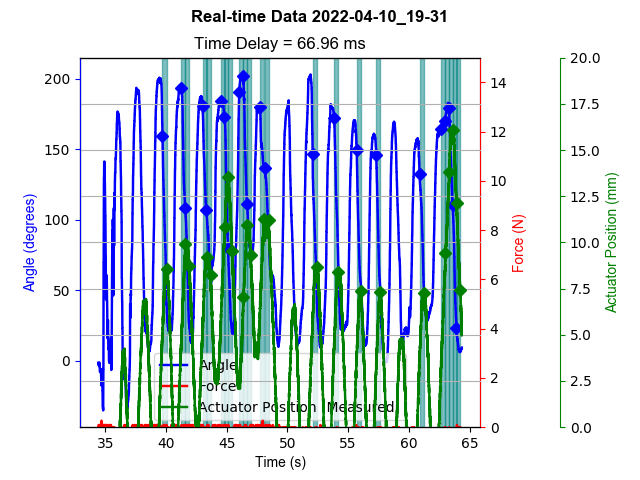
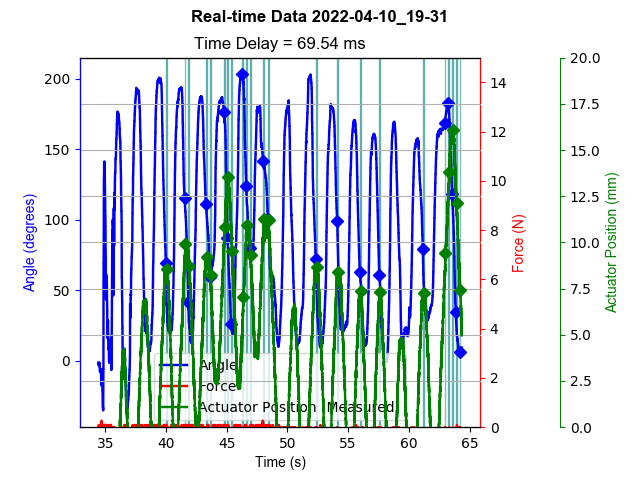
testing different auto delay computation parameters

diff --git a/processRawData.py b/processRawData.py
@@ -49,7 +49,7 @@ device1_positionMeasured = data['actuator position, measured'].tolist()
 force  = data['force'].tolist()
 
 t_d = sk.delay(angle, device1_positionMeasured, time)
-print("Time delay between signals: " + str(t_d*2000) + " ms")
+print("Time delay between signals: " + str(t_d*1000) + " ms")
 
 idx_peaksPositionMeasured, _ = signal.find_peaks(np.asarray(device1_positionMeasured), height=(7,20), distance=150)
 idx_peaksPositionMeasured = idx_peaksPositionMeasured.tolist()

diff --git a/constants.py b/constants.py
@@ -7,5 +7,5 @@ PATH = '/Users/Sreela/Documents/School/Stanford/Year3_2/PIEZO2/Data/'
 ACTUATOR_POSITION_MIN = 0.0
 ACTUATOR_POSITION_MAX = 20.0
 N_CORR = 20000 # computing the delay
-N_WINDOW = 150 # computing the delay
+N_WINDOW = 4000 # computing the delay
 
